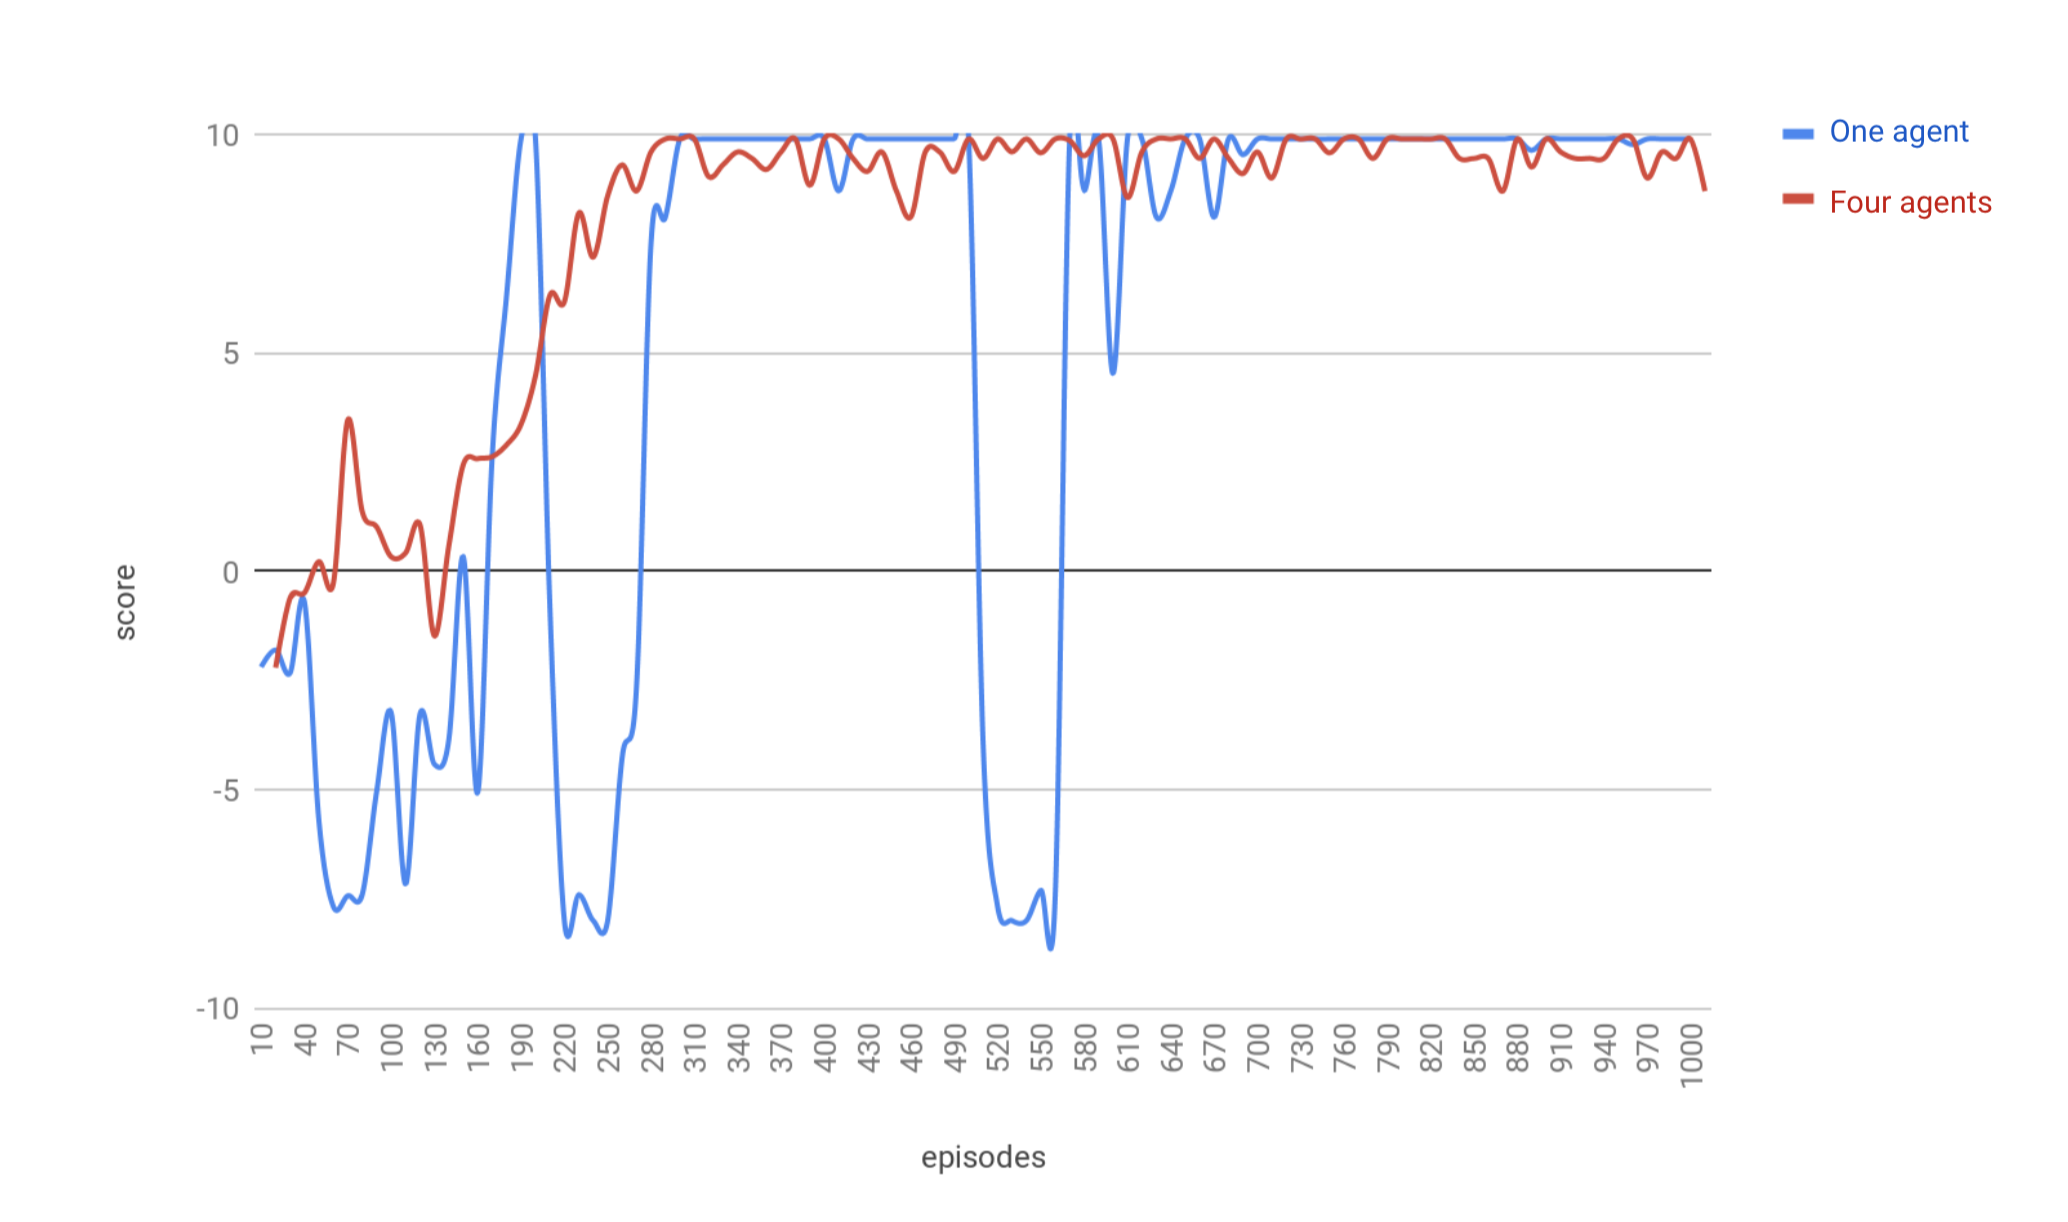
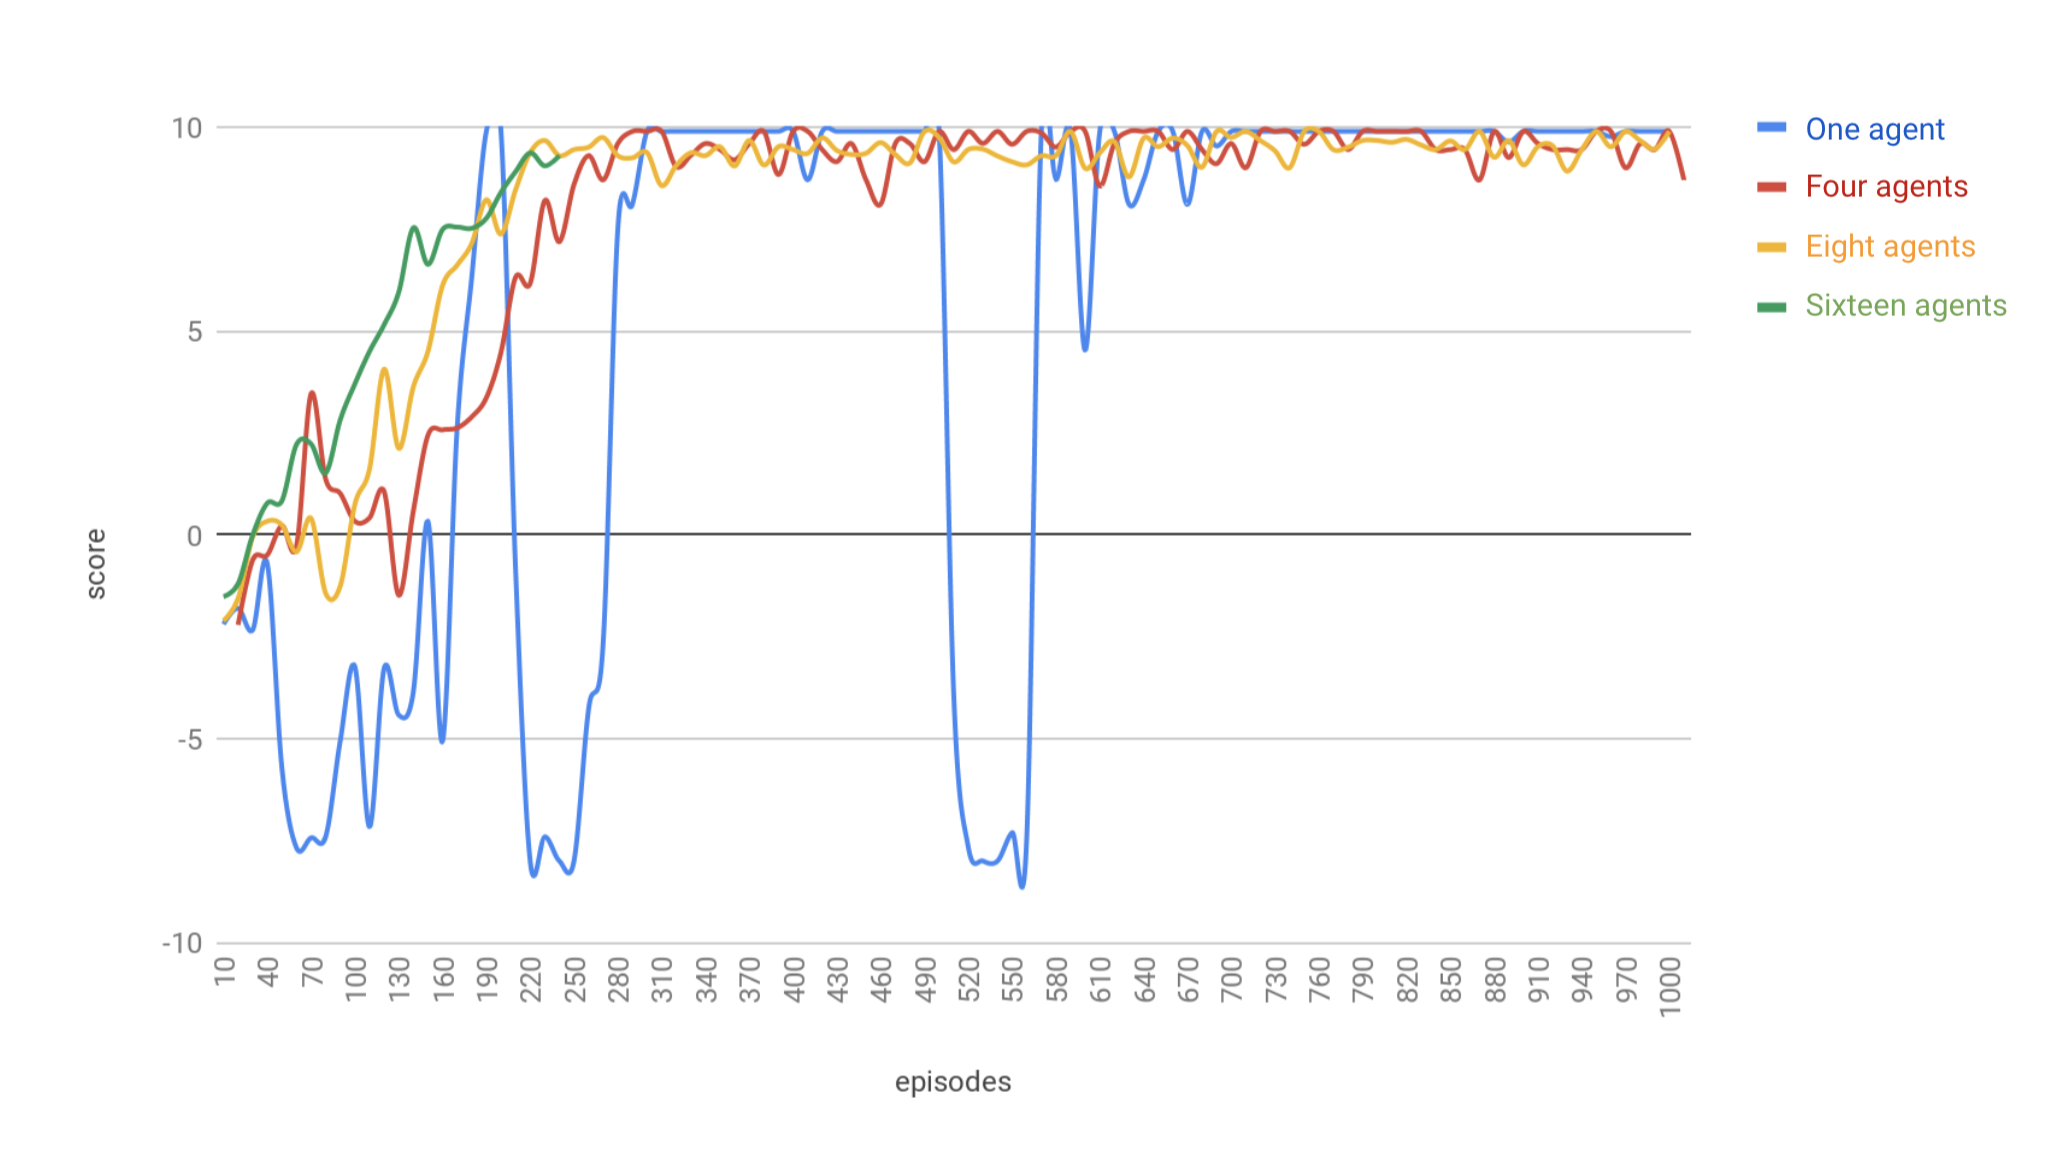
Learning progress scores with 8 and 16 agents.

diff --git a/src/train.js b/src/train.js
@@ -18,9 +18,9 @@ async function train(agent, width, height, enemies, locations) {
 
   let scores = []
 
-  fs.appendFileSync('./results', `workers: ${config.workers}\n`)
+  fs.appendFileSync('./results.txt', `workers: ${config.workers}\n`)
 
-  fs.appendFileSync('./results', `game: ${JSON.stringify(config.game)}\n`)
+  fs.appendFileSync('./results.txt', `game: ${JSON.stringify(config.game)}\n`)
 
   for (let episode = 1; episode <= episodes; episode++) {
     env.initializeGame()
@@ -54,7 +54,7 @@ async function train(agent, width, height, enemies, locations) {
 
     console.info(`${episode}th episode scored: ${score.toFixed(3)}`)
     if (!(episode % 10)) {
-      fs.appendFileSync('./results', `episode,${episode},score,${_.mean(scores.slice(-10))}\n`)
+      fs.appendFileSync('./results.txt', `episode,${episode},score,${_.mean(scores.slice(-10))}\n`)
     }
   }
 

diff --git a/README.md b/README.md
@@ -1,11 +1,11 @@
 Collaborative Deep Reinforcement Learning
 ===
 
-An implementation of Collaborative Reinforcement Learning with Deep Sarsa Agents using ([tensorflow-js](https://github.com/tensorflow/tfjs)). *n* agents train each a sarsa policy network on gridworld, a game similar to [gym-gridworld](https://github.com/maximecb/gym-minigrid).
+An implementation of Collaborative Reinforcement Learning with Deep Sarsa Agents using [tensorflow-js](https://github.com/tensorflow/tfjs). *n* agents train each a sarsa policy network on gridworld, a game similar to the gym environment in [gym-gridworld](https://github.com/maximecb/gym-minigrid#included-environments).
 
 The algorithm presented in this codebase obtains an action by predictions from *n* simultaneously trained sarsa policy networks. On startup a master process spawns *n* worker processes, for each agent one. Workers communicate with each other via IPC messages using [node cluster](https://nodejs.org/api/cluster.html). To obtain an action, agent *A* broadcasts a prediction request to *n-1* agents and generates one prediction from its own sarsa network model. Each worker is running the same agent, trains on the same game and sends/responds to prediction requests. When all agents responded with their prediction, the action with the largest value (Q_value) from all *n* predictions is obtained. During network training a factor *epsilon* between *[epsilon_min,1]* determines the fraction of times the policy action is picked versus a random action is obtained to transfer to the next state. *Epsilon* decays with increasing learning episodes. Each policy network has *4* hidden layers activated with *ReLU*.
 
-A group of collaborating agents requires less episodes to solve gridworld. I think of it like a team of people that initially explore a maze individually by picking random routes. As they build up knowledge they pick new actions on intersections based on their collectively learned experience.
+A group of collaborating agents requires less episodes to solve gridworld. I think of it like a team of people that initially explore a maze individually by picking random routes. As they build up knowledge they take turns on intersections based on their collectively learned experience and get to the end quicker than they would all by themselves.
 
 ![Alt text](results/ScoreOverEpisodes.png?raw=true "Score over episodes")
 
@@ -15,8 +15,8 @@ A group of collaborating agents requires less episodes to solve gridworld. I thi
     $ yarn start
 
 ## Configure the game, cluster and agents
-
-```
+./config.json
+```json
 {
   "workers": 4,
   "game": {
